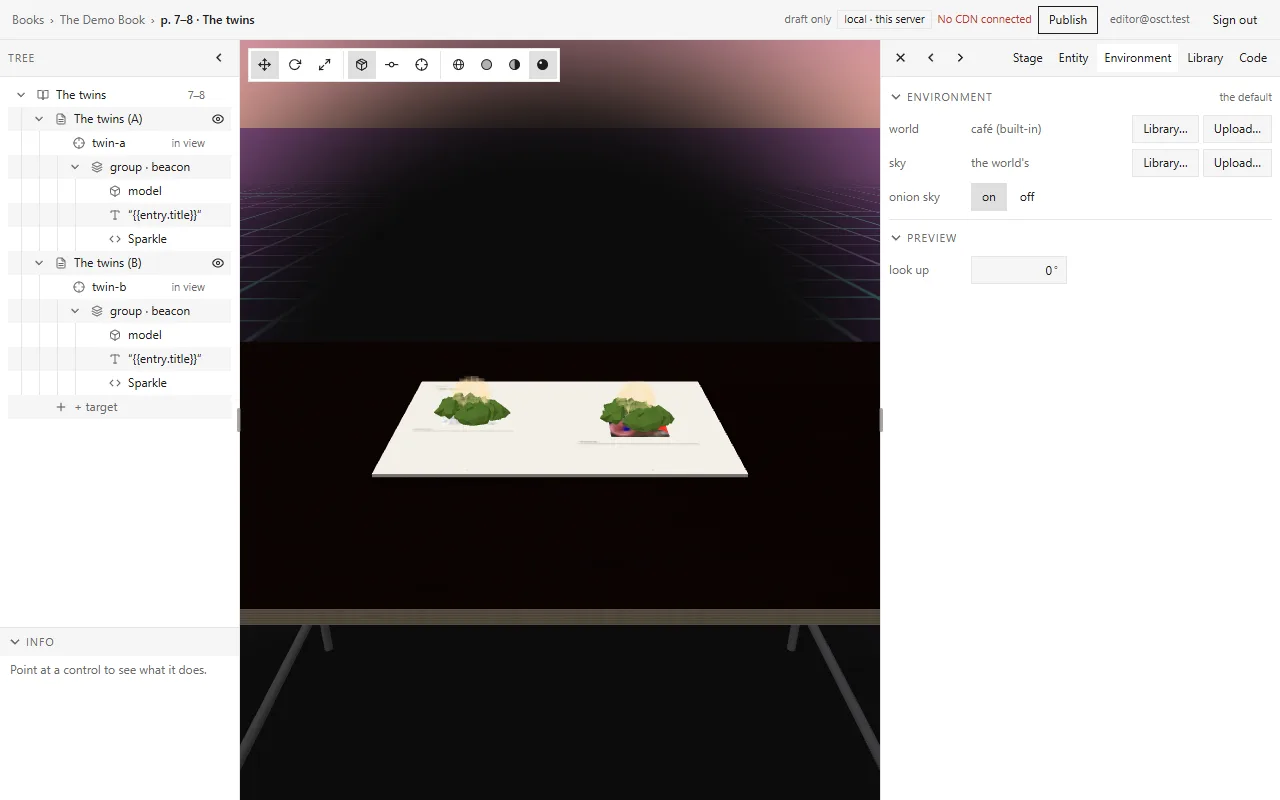
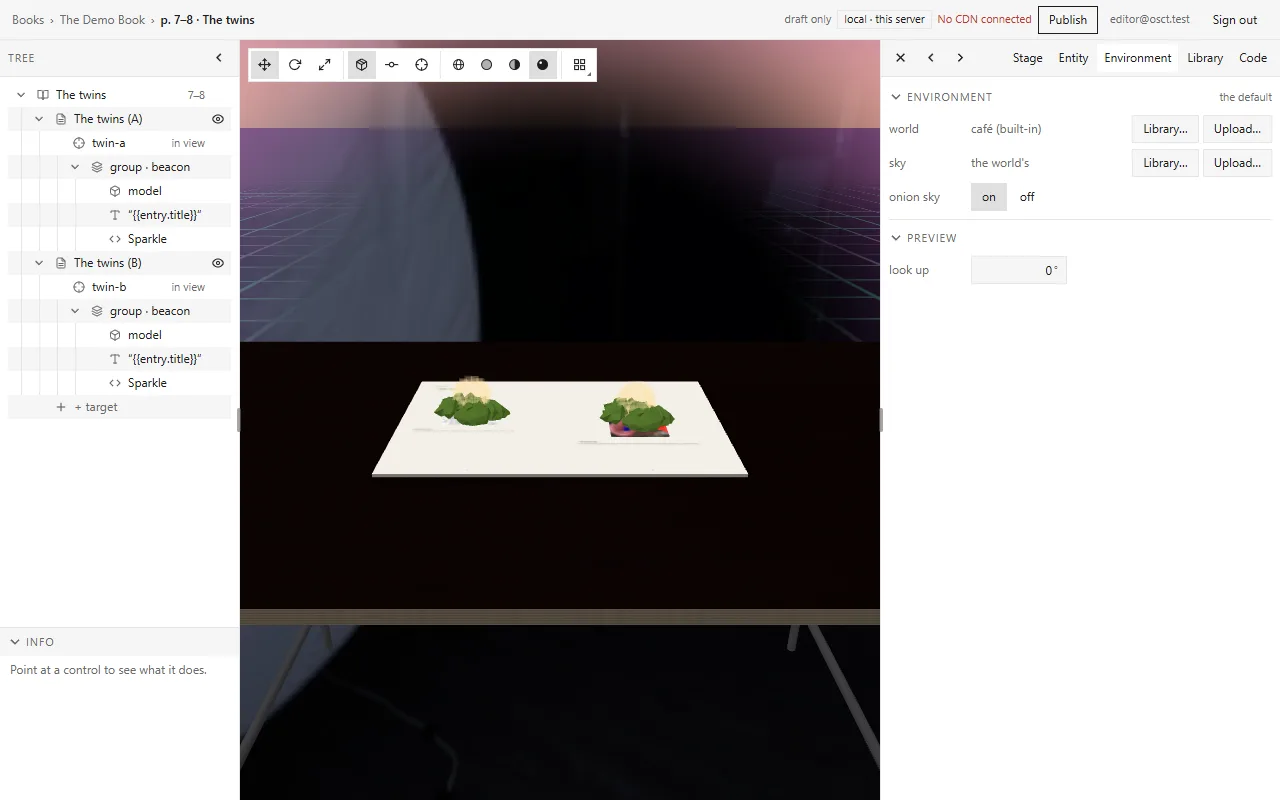
The stage fills the world's camera window with the HDRI as a background (#185)
The world's pass leaves the window around the book and the open roof
transparent, where the reader shows its camera picture; on the stage that
showed as a black hole beyond the desk. The sky sphere is now drawn behind
the world with destination-alpha blending while rendered - a stand-in for
the camera picture, no light. Reader and engine unchanged. Tests, docs,
CHANGELOG, MEMORY and the tutorial shot follow.

Changed region(s): [[0.1875, 0.0938, 0.375, 0.4375], [0.1875, 0.7812, 0.2812, 0.9062], [0.4375, 0.0625, 0.4688, 0.125]]

diff --git a/editor/src/lib/stage/sky.ts b/editor/src/lib/stage/sky.ts
@@ -7,8 +7,11 @@
  *   every shading (the tab's preview, as before). Without one: the HDRI while rendered, as before.
  * - **The light** follows the reader: the reader lights the AR content with the engine's own lights (ambient and sun,
  *   `engine/src/scene/view.ts`) and the content's light nodes – its look-around world is a full-screen pass under the
- *   scene and lights nothing. So while the world is the sky, the HDRI neither shows nor lights: the scene's own lights
+ *   scene and lights nothing. So while the world is the sky, the HDRI does not light: the scene's own lights
  *   at full strength, as in the reader. Without a world the HDRI lights the stage while rendered (the studio's light).
+ * - **The camera window.** The world leaves a window around the book (and the open roof) where the reader shows its
+ *   camera picture; on the stage the HDRI fills it while rendered, drawn behind the world – a stand-in for the camera
+ *   picture, as the desk is, not a light. The reader is unchanged (camera picture there, no HDRI).
  */
 
 import type { EnvironmentData } from "@shared/types/environment";
@@ -23,8 +26,13 @@ export type StageLight = "hdri" | "scene";
 export interface StageLook {
   sky: StageSky;
   light: StageLight;
-  /** The HDRI to load – null when it neither shows nor lights */
+  /** The HDRI to load – null when it neither shows (as sky or behind the world) nor lights */
   hdri: HdriId | null;
+  /**
+   * The HDRI fills the world's window behind it – the stage's stand-in for the reader's camera picture there (the
+   * world's pass leaves it transparent) – as a background only, no light
+   */
+  behindWorld: boolean;
 }
 
 /**
@@ -41,11 +49,16 @@ export const bookEnvironment = (saved: EnvironmentData | undefined, edited: Envi
 export const showsWorld = (input: { environment: boolean; previewing: boolean; shading: ShadingMode }): boolean =>
   input.environment && (input.previewing || input.shading === "rendered");
 
-/** Which sky and which light, from the shading, the chosen HDRI and whether the world is drawn */
+/**
+ * Which sky and which light, from the shading, the chosen HDRI and whether the world is drawn. While rendered, the
+ * world's window – where the reader shows the camera picture (around the book, the open roof) – shows the HDRI as a
+ * stand-in for the camera picture (`behindWorld`): a background behind the world, never its light.
+ */
 export const stageLook = (input: { shading: ShadingMode; hdri: HdriId | null; world: boolean }): StageLook => {
-  if (input.world) return { sky: "world", light: "scene", hdri: null };
-  if (input.shading === "rendered" && input.hdri) return { sky: "hdri", light: "hdri", hdri: input.hdri };
-  return { sky: "none", light: "scene", hdri: null };
+  const rendered = input.shading === "rendered" && !!input.hdri;
+  if (input.world) return rendered ? { sky: "world", light: "scene", hdri: input.hdri, behindWorld: true } : { sky: "world", light: "scene", hdri: null, behindWorld: false };
+  if (rendered) return { sky: "hdri", light: "hdri", hdri: input.hdri, behindWorld: false };
+  return { sky: "none", light: "scene", hdri: null, behindWorld: false };
 };
 
 /** A reference's file name (the URL's last part), for a world or sky file without a Library name */

diff --git a/client/public/docs/tutorials/index.html b/client/public/docs/tutorials/index.html
@@ -432,7 +432,7 @@ npm run osct -- content status --env staging</code></pre>
   <h4>7–8 · The twins</h4>
   <p><em>twin-a</em> and <em>twin-b</em> are two targets with the same entity: <code>beacon</code>, a model with a text and <code>spin</code>. The tree marks it as <em>group · beacon</em>. Change it once and both pages change.</p>
   <figure class="shot">
-    <img src="/docs/tutorials/demo/08-environment.webp" width="1280" height="800" loading="lazy" alt="The twins spread seen from further away and lower: the open book on a dark desk, a beacon on each page, the café world behind it with a purple grid floor and a pink sky, dark around the book where the reader sees the camera picture; the Environment panel shows the default: world café (built-in) and sky the world's, each with Library… and Upload…, onion sky on, and the preview section with look up 0°.">
+    <img src="/docs/tutorials/demo/08-environment.webp" width="1280" height="800" loading="lazy" alt="The twins spread seen from further away and lower: the open book on a dark desk, a beacon on each page, the café world behind it with a purple grid floor and a pink sky, and around the book, where the reader sees the camera picture, the studio picture; the Environment panel shows the default: world café (built-in) and sky the world's, each with Library… and Upload…, onion sky on, and the preview section with look up 0°.">
     <figcaption>The twins: the shared <code>beacon</code> on both pages. Behind the book is the environment – the built-in café and its sky – with the Environment panel open.</figcaption>
   </figure>
 
@@ -484,7 +484,7 @@ npm run osct -- content status --env staging</code></pre>
 
   <h3 class="sec" id="demo-environment">Environment and sky</h3>
   <p>The <b>Environment</b> tab sets the world around the book: <b>world</b> (the built-in café or a glTF model), <b>sky</b> (the world's own or an image) and <b>onion sky</b> on or off. The onion sky needs a camera picture, so only the reader shows it. <b>look up</b> lifts the camera from the book towards the horizon, to see the world as a reader will. The twins' figure above shows it.</p>
-  <p>Once the book has an environment, its world is the stage's sky in every tab while the stage is <em>rendered</em>, and the stage is lit as the reader lights it – you see the world the reader will see. A book without one shows a studio picture (an HDRI) as sky and light.</p>
+  <p>Once the book has an environment, its world is the stage's sky in every tab while the stage is <em>rendered</em>, and the stage is lit as the reader lights it – you see the world the reader will see. Around the book, where the reader sees the camera picture, the stage shows the studio picture. A book without one shows a studio picture (an HDRI) as sky and light.</p>
   <p>The Stage tab has two more settings, stored on your device only: the <b>desk</b> under the book and the studio <b>sky</b> (the HDRI). With an environment the sky row names it – <em>the environment's (world café)</em> – and the HDRI waits below for a book without one.</p>
 
   <h3 class="sec" id="demo-shading">Shading</h3>

diff --git a/editor/src/lib/stage/mock-stage.ts b/editor/src/lib/stage/mock-stage.ts
@@ -1,4 +1,5 @@
 import {
+  AddEquation, CustomBlending, NormalBlending, OneFactor, OneMinusDstAlphaFactor,
   BoxGeometry, CanvasTexture, EquirectangularReflectionMapping, Group, Light, LineBasicMaterial, LineSegments, BufferGeometry, Float32BufferAttribute, type Material, type Matrix4, Mesh, MeshBasicMaterial, MeshStandardMaterial, type Object3D, Plane,
   PlaneGeometry, type Raycaster, RepeatWrapping, type Scene, SphereGeometry, SRGBColorSpace, type Texture, TextureLoader, UVMapping, Vector3,
 } from "three";
@@ -99,6 +100,20 @@ const HDRI_EXPOSURE_DEFAULT = 0.4;
 const LIGHTS_WITH_HDRI = 0.35;
 /** The sky sphere's radius (metres) – far beyond the table, near enough for the depth buffer */
 const SKY_RADIUS = 30;
+/**
+ * The sky sphere behind the environment's world (#185): the world's pass is drawn first and leaves its camera window
+ * transparent (alpha 0, premultiplied soft edges), so the sphere adds itself only where the frame is not yet covered –
+ * `(1 − destination alpha) · sky + frame` – and fills the window as a stand-in for the reader's camera picture. Off: the
+ * sphere draws normally (the HDRI as the sky).
+ */
+export const behindWorld = (material: Material, on: boolean): void => {
+  material.blending = on ? CustomBlending : NormalBlending;
+  material.blendEquation = AddEquation;
+  material.blendSrc = OneMinusDstAlphaFactor;
+  material.blendDst = OneFactor;
+  material.blendSrcAlpha = OneMinusDstAlphaFactor;
+  material.blendDstAlpha = OneFactor;
+};
 /** The ghost's corner handle (mm) */
 const GHOST_HANDLE = 8;
 /** The sharper sheet image is fetched once the camera is this close to the page (mm) */
@@ -678,10 +693,11 @@ export class MockStage implements StageView {
 
   private applyHdri(texture: Texture): void {
     const exposure = HDRI_EXPOSURE[this.wantedHdri ?? ""] ?? HDRI_EXPOSURE_DEFAULT;
+    const look = this.look();
     // The light: the equirectangular map as the scene's environment (its direction does not follow the orbit – the
-    // room's light is even enough for that not to show)
+    // room's light is even enough for that not to show) – not while the world is the sky (the reader's lights, `sky.ts`)
     this.scene.background = null;
-    this.scene.environment = texture;
+    this.scene.environment = look.light === "hdri" ? texture : null;
     this.scene.environmentIntensity = exposure;
     // The sky: the same image on a sphere around the stage, seen from inside; the HDRI's up is the page's +z
     const map = texture.clone();
@@ -700,9 +716,10 @@ export class MockStage implements StageView {
     this.sky.material.map?.dispose();
     this.sky.material.map = map;
     this.sky.material.color.setScalar(exposure);
+    behindWorld(this.sky.material, look.behindWorld);
     this.sky.material.needsUpdate = true;
-    this.sky.visible = this.look().sky === "hdri";
-    this.dimLights(true);
+    this.sky.visible = look.sky === "hdri" || look.behindWorld;
+    this.dimLights(look.light === "hdri");
   }
 
   /**

diff --git a/editor/src/lib/stage/__tests__/mock-stage.test.ts b/editor/src/lib/stage/__tests__/mock-stage.test.ts
@@ -1,5 +1,7 @@
 import { describe, expect, it, vi } from "vitest";
-import { DirectionalLight, type LineSegments, Scene, Texture } from "three";
+import {
+  CustomBlending, DirectionalLight, type LineSegments, type Mesh, type MeshBasicMaterial, NormalBlending, OneFactor, OneMinusDstAlphaFactor, Scene, type SphereGeometry, Texture,
+} from "three";
 import { MockStage } from "../mock-stage";
 
 const page = { width: 230, height: 320 };
@@ -225,7 +227,7 @@ describe("mock stage: the desks' look (#107, #187)", () => {
 });
 
 describe("mock stage: the environment replaces the HDRI (#185)", () => {
-  it("hides the HDRI's sky and takes its light away while the world is drawn, and gives both back after", () => {
+  it("takes the HDRI's light away while the world is drawn and keeps it only behind the world's window, and gives both back after", () => {
     vi.spyOn(console, "warn").mockImplementation(() => {});
     vi.stubGlobal("fetch", vi.fn(() => Promise.reject(new Error("offline"))));
     const scene = new Scene();
@@ -234,23 +236,33 @@ describe("mock stage: the environment replaces the HDRI (#185)", () => {
     const stage = new MockStage(scene, path => `/${path}`);
     const texture = new Texture();
     (stage as unknown as { hdris: Map<string, Texture> }).hdris.set("wooden_studio_17", texture);
-    const sky = () => scene.getObjectByName("mock-sky");
+    const sky = () => scene.getObjectByName("mock-sky") as Mesh<SphereGeometry, MeshBasicMaterial> | undefined;
     stage.setHdri("wooden_studio_17");
     expect(scene.environment).toBe(texture);
     expect(sky()?.visible).toBe(true);
+    expect(sky()?.material.blending).toBe(NormalBlending);
     expect(sun.intensity).toBeCloseTo(0.6 * 0.35);
 
     stage.setWorld(true);
     expect(scene.environment).toBeNull();
-    expect(sky()?.visible).toBe(false);
     expect(sun.intensity).toBeCloseTo(0.6);
-    // the HDRI chosen meanwhile stays out of the way
+    // the sphere stays as the camera window's stand-in, added only where the world left the frame uncovered
+    expect(sky()?.visible).toBe(true);
+    expect(sky()?.material.blending).toBe(CustomBlending);
+    expect(sky()?.material.blendSrc).toBe(OneMinusDstAlphaFactor);
+    expect(sky()?.material.blendDst).toBe(OneFactor);
+    // the HDRI chosen meanwhile stays out of the light
     stage.setHdri("wooden_studio_17");
     expect(scene.environment).toBeNull();
+    // other shadings: no window stand-in (as no HDRI sky there without a world)
+    stage.setShading("solid");
+    expect(sky()?.visible).toBe(false);
+    stage.setShading("rendered");
 
     stage.setWorld(false);
     expect(scene.environment).toBe(texture);
     expect(sky()?.visible).toBe(true);
+    expect(sky()?.material.blending).toBe(NormalBlending);
     expect(sun.intensity).toBeCloseTo(0.6 * 0.35);
   });
 });

diff --git a/editor/src/lib/stage/__tests__/sky.test.ts b/editor/src/lib/stage/__tests__/sky.test.ts
@@ -36,17 +36,26 @@ describe("sky: when the world is drawn", () => {
 });
 
 describe("sky: which sky and which light", () => {
-  it("the world: no HDRI, the scene's own lights as in the reader", () => {
-    for (const shading of SHADING_MODES) expect(stageLook({ shading, hdri: "wooden_studio_17", world: true })).toEqual({ sky: "world", light: "scene", hdri: null });
+  it("the world: the scene's own lights as in the reader – the HDRI only behind it, in its camera window, while rendered", () => {
+    expect(stageLook({ shading: "rendered", hdri: "wooden_studio_17", world: true })).toEqual({ sky: "world", light: "scene", hdri: "wooden_studio_17", behindWorld: true });
+    for (const shading of ["wireframe", "solid", "textured"] as const) {
+      expect(stageLook({ shading, hdri: "wooden_studio_17", world: true })).toEqual({ sky: "world", light: "scene", hdri: null, behindWorld: false });
+    }
+  });
+
+  it("the world never takes the HDRI's light, in any shading", () => {
+    for (const shading of SHADING_MODES) expect(stageLook({ shading, hdri: "ferndale_studio_04", world: true }).light).toBe("scene");
   });
 
   it("without a world the HDRI shows and lights while rendered, as before", () => {
-    expect(stageLook({ shading: "rendered", hdri: "ferndale_studio_04", world: false })).toEqual({ sky: "hdri", light: "hdri", hdri: "ferndale_studio_04" });
+    expect(stageLook({ shading: "rendered", hdri: "ferndale_studio_04", world: false })).toEqual({ sky: "hdri", light: "hdri", hdri: "ferndale_studio_04", behindWorld: false });
   });
 
   it("other shadings: no sky, the scene's lights", () => {
-    for (const shading of ["wireframe", "solid", "textured"] as const) expect(stageLook({ shading, hdri: "wooden_studio_17", world: false })).toEqual({ sky: "none", light: "scene", hdri: null });
-    expect(stageLook({ shading: "rendered", hdri: null, world: false })).toEqual({ sky: "none", light: "scene", hdri: null });
+    for (const shading of ["wireframe", "solid", "textured"] as const) {
+      expect(stageLook({ shading, hdri: "wooden_studio_17", world: false })).toEqual({ sky: "none", light: "scene", hdri: null, behindWorld: false });
+    }
+    expect(stageLook({ shading: "rendered", hdri: null, world: false })).toEqual({ sky: "none", light: "scene", hdri: null, behindWorld: false });
   });
 });
 

diff --git a/agents/MEMORY.md b/agents/MEMORY.md
@@ -12,14 +12,22 @@ outcome in the line (or move it into a dated decision block).
   engine's fixed ambient (#BBB, 1) and sun (0.6) in `engine/src/scene/view.ts` plus the content's light nodes; there is
   no image-based light anywhere in the reader (`scene.environment` is never set), and the look-around world is a
   full-screen underlay that lights nothing (the world model's bake has its own lights, for the cube only). So with the
-  world as the sky the HDRI neither shows nor lights – the scene's own lights at full strength. Without an environment
+  world as the sky the HDRI does not light (it only fills the camera window, below) – the scene's own lights at full strength. Without an environment
   the HDRI lights the stage as before (a studio stand-in for the camera picture's room, the editor's own look). The
   Environment tab's preview follows the same rule (it used to keep the HDRI's light).
 - "Has an environment" = the draft's `book.environment` is set, or the author's edits in the Environment tab start one
   (edited away from the default, unsaved) – the stage shows unsaved values as it shows unsaved entity overrides. A book
   without one is *not* shown with the reader's default café outside the tab: the issue keeps the HDRI there.
+- **The camera window shows the HDRI as a background** (the orchestrator, before merging: the black window around the
+  book would show on every rendered spread of a book with an environment). The world's pass leaves the window – and
+  the open roof – transparent (alpha 0) where the reader shows its camera picture; the stage's sky sphere is drawn after
+  it with destination-alpha blending (`(1 − dst alpha) · sky + frame`, `behindWorld` in `mock-stage.ts`), so it fills
+  only the uncovered part, soft edges included, in both draw paths (onto the screen, into the post chain's buffer). It
+  is the camera picture's stand-in, like the desk: no light (`scene.environment` stays null, the scene's lights stay at
+  full), only while rendered (other shadings show no HDRI anyway). No engine change; the reader keeps its camera
+  picture there. A grey gradient was the fallback, not needed.
 - The HDRI picker stays (labelled *HDRI*, dimmed, "without an environment"): it is the device's setting for every book,
-  used again for books without an environment.
+  used again for books without an environment – and, with one, the stand-in in the camera window.
 - Per-spread environments: not in the content schema (`shared/types/environment.ts`: book-level only), so the stage
   follows the book's. When a spread level comes, `bookEnvironment` in `editor/src/lib/stage/sky.ts` is where the
   spread's wins.

diff --git a/docs/editor.md b/docs/editor.md
@@ -445,9 +445,12 @@ is involved.
     **The environment replaces the HDRI sky box** (#185, Tilman: *"Environment replaces the HDRI sky box."*): once the
     book has an environment – the draft's, or edits that start one – the stage shows its world as the sky in every tab
     while the shading is rendered (the same pass, *look up* stays the tab's), so the author sees the world the reader
-    will see, not a studio behind it. The HDRI then neither shows nor lights: the reader lights the AR content with the
+    will see, not a studio behind it. The HDRI then no longer lights: the reader lights the AR content with the
     engine's own ambient and sun (and the content's light nodes) – its world is a pass under the scene and lights
-    nothing –, so the stage does too. A book without one keeps the HDRI. The decision is one pure function,
+    nothing –, so the stage does too. Where the reader shows its camera picture – the window around the book, the open
+    roof – the world's pass leaves the frame transparent; the stage fills it with the HDRI, drawn behind the world
+    (destination-alpha blending, `behindWorld` in `mock-stage.ts`) as a background only – the camera picture's stand-in,
+    like the desk. A book without one keeps the HDRI as sky and light. The decision is one pure function,
     `editor/src/lib/stage/sky.ts` (`bookEnvironment`, `showsWorld`, `stageLook` – which sky, which light); the Stage
     panel's *sky* row then names the environment's (*the environment's (world café)*), the HDRI picker stays below it
     for books without one, and the closed *stage* head adds *· the environment's sky*.

diff --git a/docs/CHANGELOG.md b/docs/CHANGELOG.md
@@ -18,11 +18,14 @@ Sections per version: *Added*, *Changed*, *Fixed*, *Removed* (only those that ap
 - **The environment replaces the HDRI sky box** (#185): once a book has an environment (the draft's, or edits that start
   one), the editor's stage shows its look-around world as the sky in every tab while the shading is *rendered* – the
   author sees the world the reader will see, not a studio behind it. The stage is then lit as the reader lights the AR
-  content – the engine's own ambient and sun, no HDRI (the reader's world lights nothing). Post-processing still shades
-  the world. A book without an environment keeps the HDRI as before. The Stage panel's *sky* row names the
+  content – the engine's own ambient and sun, no HDRI light (the reader's world lights nothing). Where the reader shows
+  its camera picture – the window around the book and the open roof – the stage shows the HDRI as a stand-in, drawn
+  behind the world as a background only, so there is no black hole beyond the desk. Post-processing still shades the
+  world. A book without an environment keeps the HDRI as before. The Stage panel's *sky* row names the
   environment's (*the environment's (world café)*), the HDRI picker stays below it for books without one, the closed
   *stage* head adds *· the environment's sky*, and the *rendered* button's tooltip says so. The Environment tab's
-  preview now also takes the HDRI's light away (before, only its sky).
+  preview now also takes the HDRI's light away and fills the camera window with it while rendered (before, the window
+  was black).
 
 ## 1.47.0 – 2026-10-30
 

diff --git a/docs/look-around.md b/docs/look-around.md
@@ -19,7 +19,9 @@ book without an `environment` keeps today's look. Not yet in the content: per-sp
 editor edits it on the stage, in the workspace's Environment tab ([editor](editor.md)), which previews this very pass.
 **On the editor's stage the environment replaces the HDRI sky box** (#185): once the book has one, the stage shows this
 pass as its sky while rendered, in every tab, and lights the content as the reader does – the engine's ambient and sun,
-no HDRI (the pass lights nothing in the reader either). A book without one shows the studio HDRI on the stage.
+no HDRI light (the pass lights nothing in the reader either). The window the pass leaves for the camera picture shows
+the studio HDRI there, behind the world, as the camera picture's stand-in. A book without one shows the studio HDRI on
+the stage as sky and light.
 
 ## How it works
 
